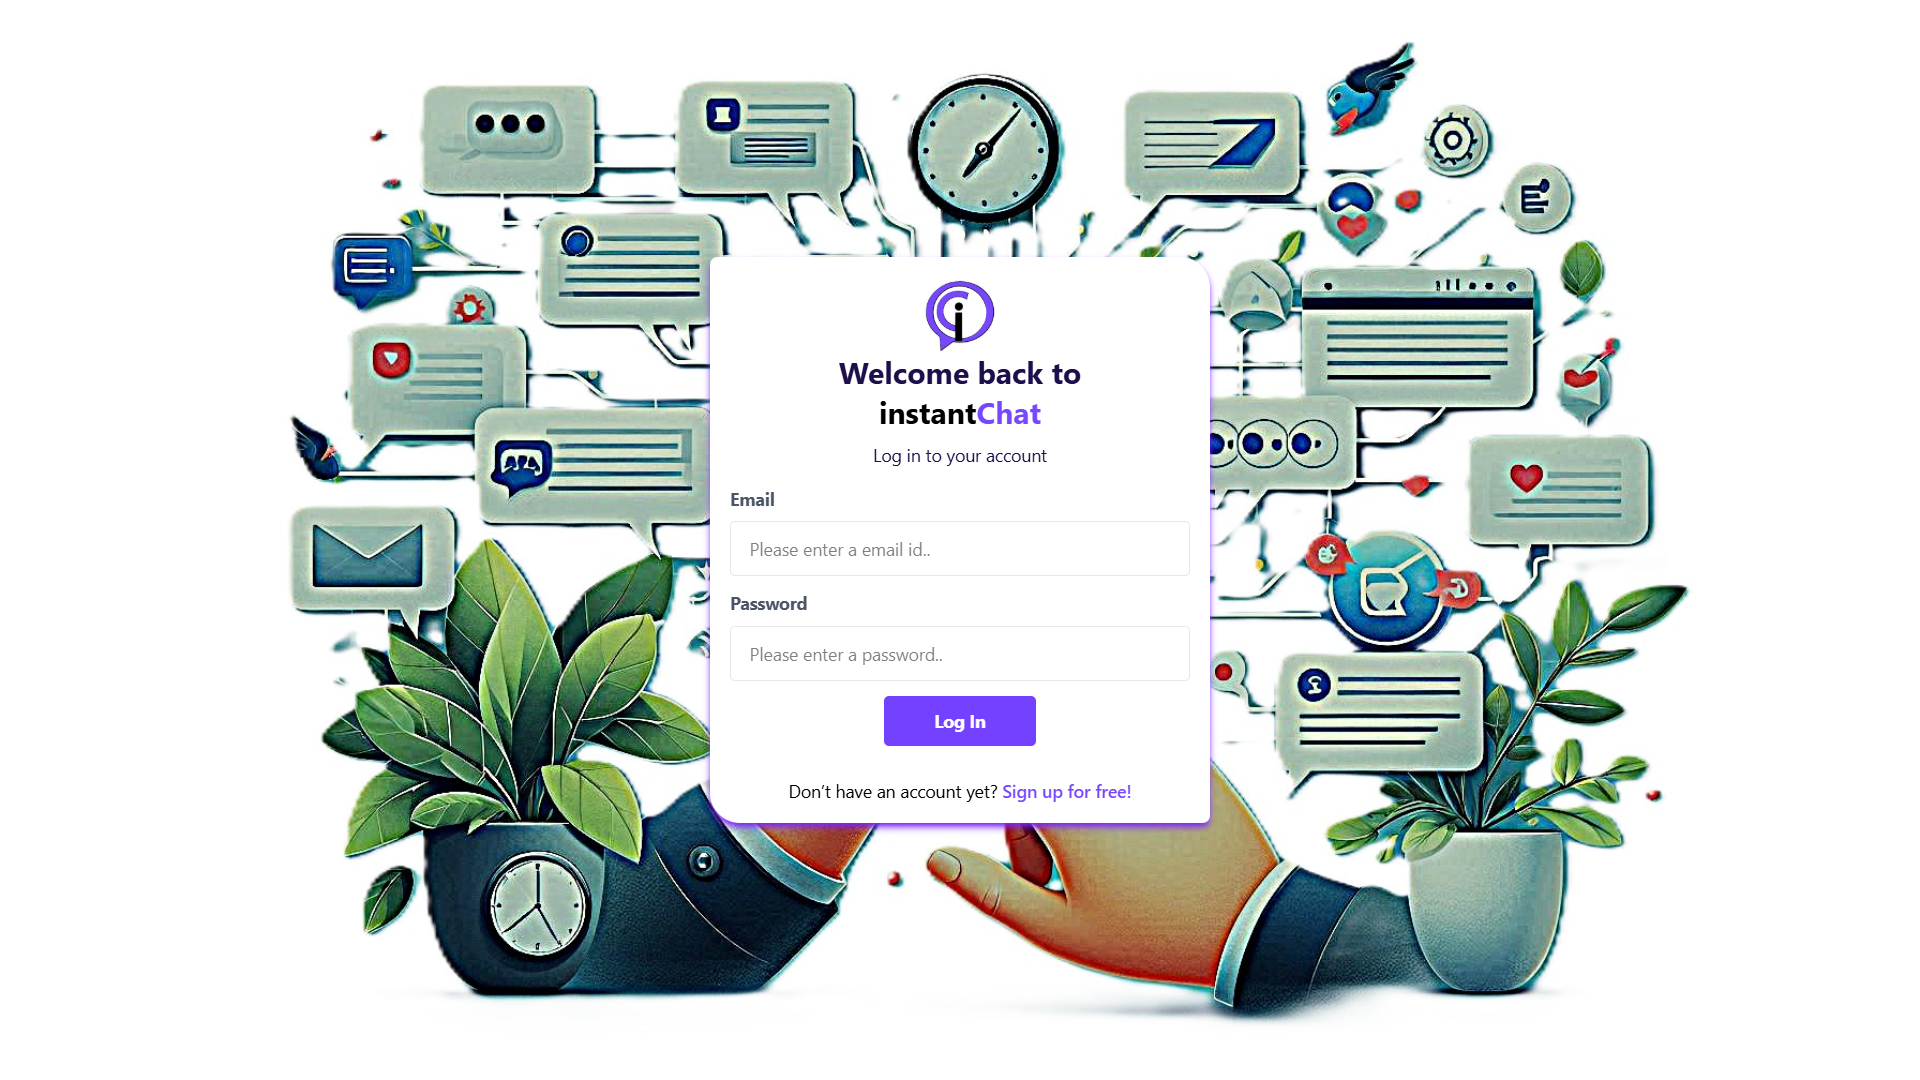
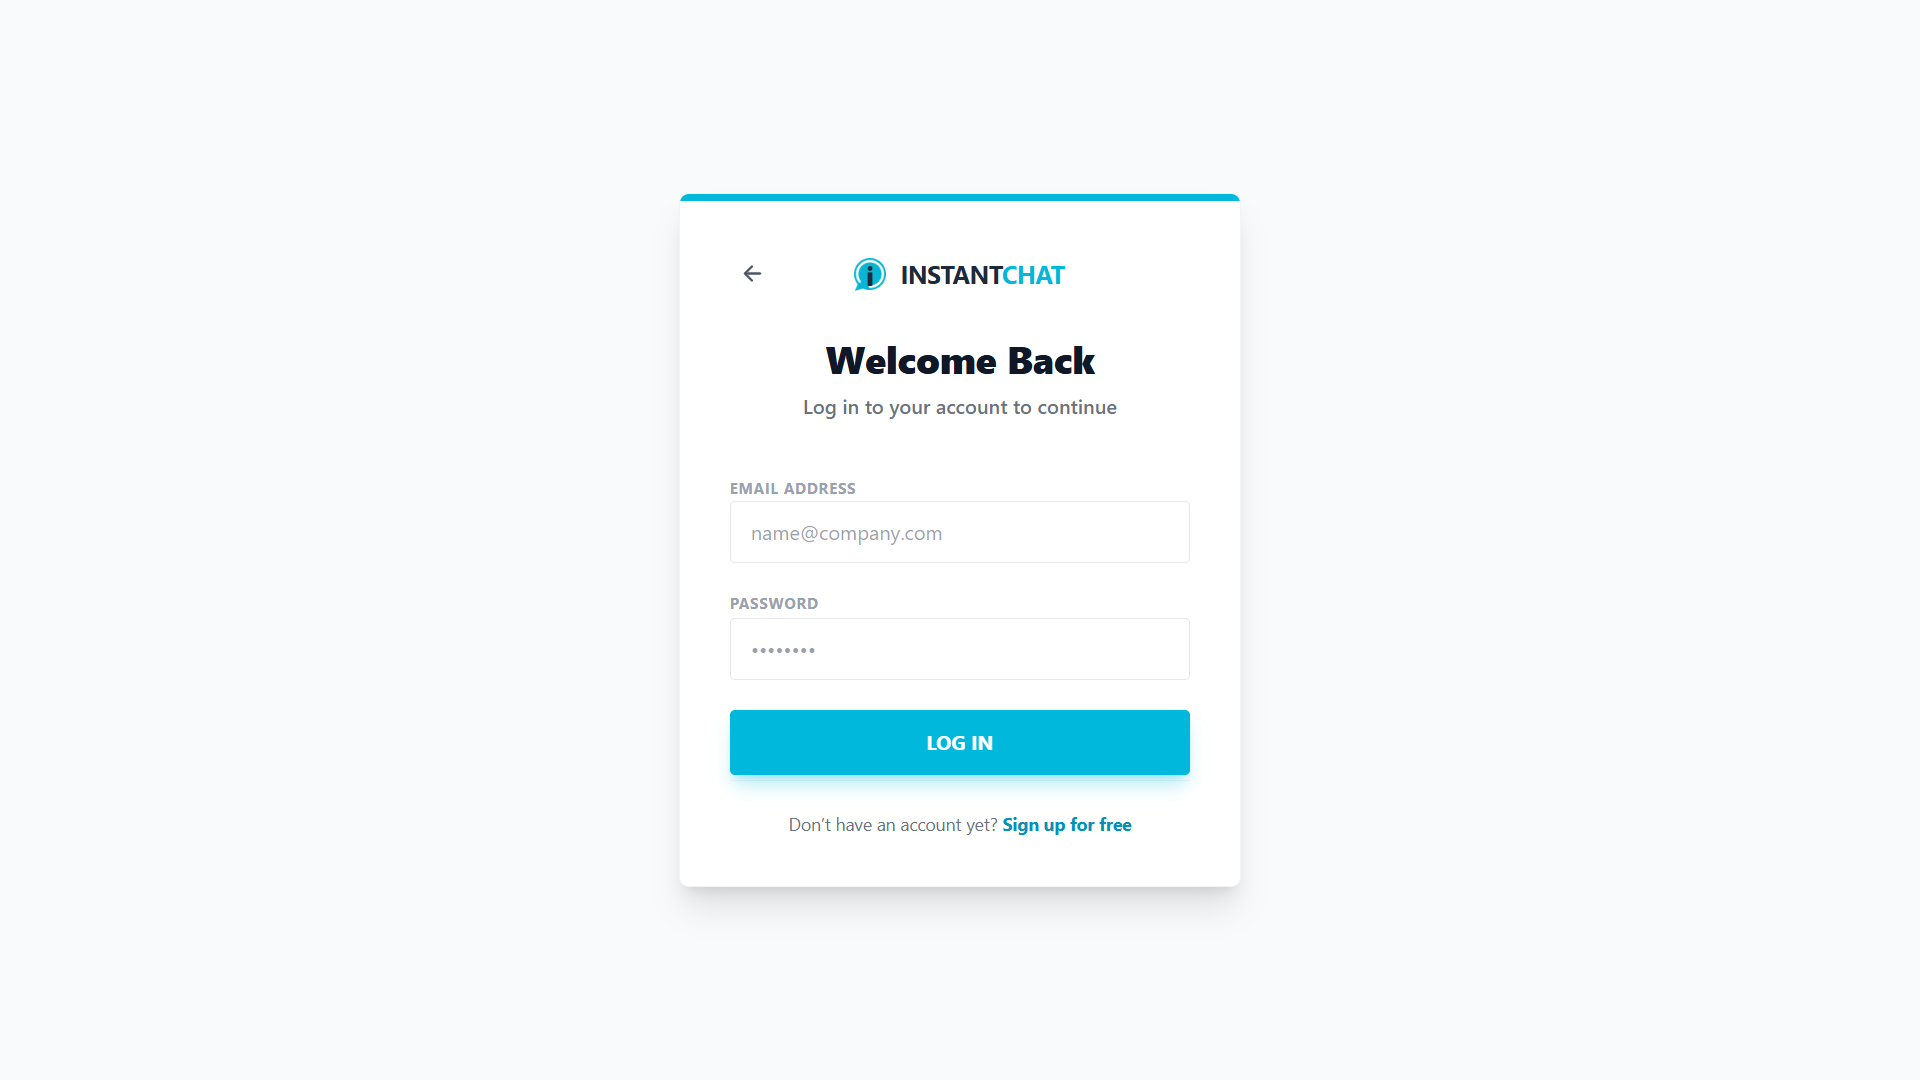
Add New Project

diff --git a/src/Components/ContactUs.jsx b/src/Components/ContactUs.jsx
@@ -39,14 +39,11 @@ function ContactUs() {
               Get Started
               <span className="block w-16 h-1.5 bg-[#9b51e0] mt-3 mx-auto rounded-full"></span>
             </h2>
-            <p className="text-gray-500 mt-4 font-medium uppercase tracking-widest text-sm">
-              I'm available for new projects
-            </p>
           </div>
 
           <div className="max-w-4xl mx-auto bg-white rounded-[2rem] shadow-2xl shadow-purple-500/5 overflow-hidden flex flex-col lg:flex-row border border-gray-100">
             <div className="lg:w-1/3 bg-gradient-to-br from-[#9b51e0] to-[#3a0ca3] p-10 text-white flex flex-col justify-center">
-              <h3 className="text-2xl font-bold mb-4">100% Satisfaction Guaranteed</h3>
+              <h3 className="text-2xl font-bold mb-4">  I'm available for new projects</h3>
               <p className="text-white/80 text-sm leading-relaxed mb-6">
                 I help students and businesses build robust digital solutions with the MERN stack.
               </p>

diff --git a/src/Components/Home.jsx b/src/Components/Home.jsx
@@ -1,6 +1,6 @@
 import React from 'react'
 import { FaSquareGithub, FaLinkedin, FaPlay } from "react-icons/fa6";
-import Photo from "../../public/Img/Photo.png";
+import Photo from "../../public/Img/Image1.png";
 
 function Home() {
   const icons = [
@@ -24,9 +24,9 @@ function Home() {
 
   return (
     <>
-      <main 
+      <main style={{ minHeight:"calc(100vh - 100px)"}}
         name="Home" 
-        className="relative w-full min-h-screen flex flex-col items-center justify-center bg-gradient-to-r from-[#9b51e0] to-[#3a0ca3] text-white pt-32 pb-48 overflow-hidden"
+        className="relative w-full h-auto flex flex-col items-center justify-center bg-gradient-to-r from-[#9b51e0] to-[#3a0ca3] text-white py-32 overflow-hidden"
       >
         <div className="absolute top-20 left-10 w-32 h-32 bg-white/5 rounded-full blur-2xl animate-pulse"></div>
         <div className="absolute bottom-40 right-10 w-64 h-64 bg-purple-400/10 rounded-full blur-3xl"></div>

diff --git a/src/Components/Project.jsx b/src/Components/Project.jsx
@@ -2,6 +2,7 @@ import React from 'react'
 import Img1 from "../../public/Img/Project1.png"
 import Img2 from "../../public/Img/Project2.png"
 import Img3 from "../../public/Img/Project3.png"
+import Img4 from "../../public/Img/Project4.png"
 import { FaArrowRight } from "react-icons/fa6";
 
 function Project() {
@@ -29,6 +30,14 @@ function Project() {
       category: "Examination System",
       p: "An end-to-end online examination platform designed to simplify and secure the entire assessment lifecycle for institutions.",
       link: "https://intelli-assess-major-project.onrender.com",
+    },
+     {
+      id: 3,
+      text: "Placid Digital",
+      img: Img4,
+      category: "Training Program",
+      p: "Placid Digital is a fast-growing IT power-house delivering innovative software, mobile apps, and digital marketing strategies.",
+      link: "https://placid-digital.vercel.app/",
     },
   ]
 

diff --git a/src/Components/Footer.jsx b/src/Components/Footer.jsx
@@ -27,7 +27,7 @@ function Footer() {
 
   return (
     <footer className="w-full bg-[#111] text-white pt-16 pb-8 px-6 md:px-20 font-sans">
-      <div className="container mx-auto flex flex-col md:flex-row justify-evenly items-start gap-12 mb-12">
+      <div className="container mx-auto flex flex-col md:flex-row justify-between items-start gap-12 mb-12">
   
         <div className="md:w-80 col-span-1 md:col-span-1">
           <h2 className="text-3xl font-extrabold italic mb-6">
